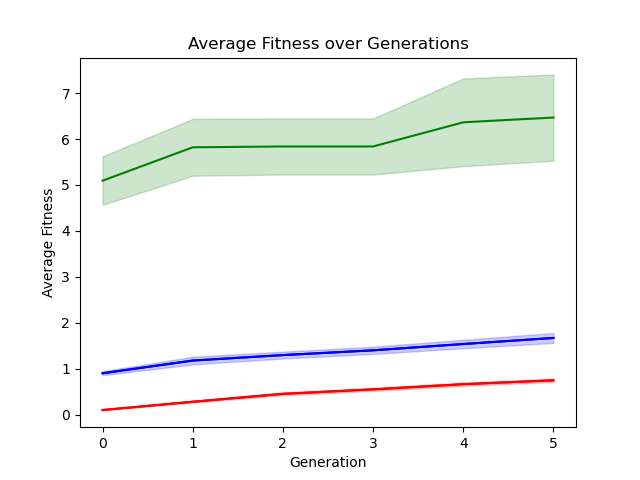
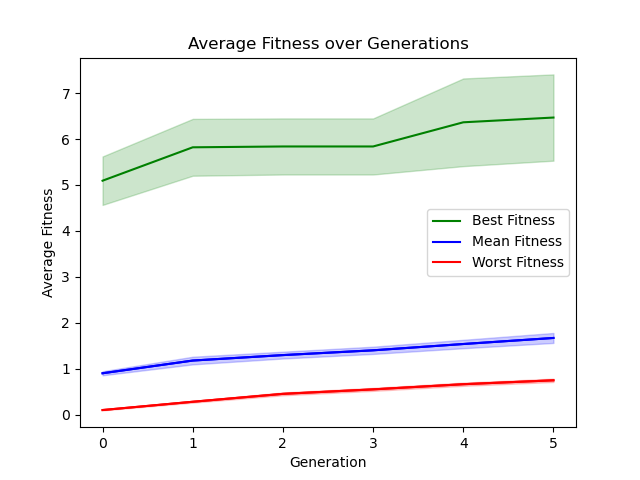
mini fix

Changed region(s): [[0.6562, 0.4375, 0.9062, 0.5625]]

diff --git a/EvoRob8b/plotter2.py b/EvoRob8b/plotter2.py
@@ -62,18 +62,18 @@ def plot_average_fitness(runIDs, plotname):
     z = np.arange(len(avg_fitness_worst))
 
     plt.plot(x, avg_fitness_best, 'g', label="Best Fitness")
+    plt.plot(x, avg_fitness_mean, 'b', label="Mean Fitness")
+    plt.plot(x, avg_fitness_worst, 'r', label="Worst Fitness")
     plt.fill_between(x, 
                      np.array(avg_fitness_best) - np.array(std_error_best), 
                      np.array(avg_fitness_best) + np.array(std_error_best), 
                      color='g', alpha=0.2)
 
-    plt.plot(x, avg_fitness_mean, 'b', label="Mean Fitness")
     plt.fill_between(x, 
                      np.array(avg_fitness_mean) - np.array(std_error_mean), 
                      np.array(avg_fitness_mean) + np.array(std_error_mean), 
                      color='b', alpha=0.2)
 
-    plt.plot(x, avg_fitness_worst, 'r', label="Worst Fitness")
     plt.fill_between(x, 
                      np.array(avg_fitness_worst) - np.array(std_error_worst), 
                      np.array(avg_fitness_worst) + np.array(std_error_worst), 
@@ -82,6 +82,8 @@ def plot_average_fitness(runIDs, plotname):
     plt.plot(z, avg_fitness_worst, 'r', label=" Worst fitness")
     plt.xlabel("Generation")
     plt.ylabel("Average Fitness")
+    plt.legend(["Best Fitness", "Mean Fitness", "Worst Fitness"])
+
     plt.title("Average Fitness over Generations")
     plt.savefig(config.LOG_FOLDER + "plots/" + plotname + ".png")
     plt.close()
